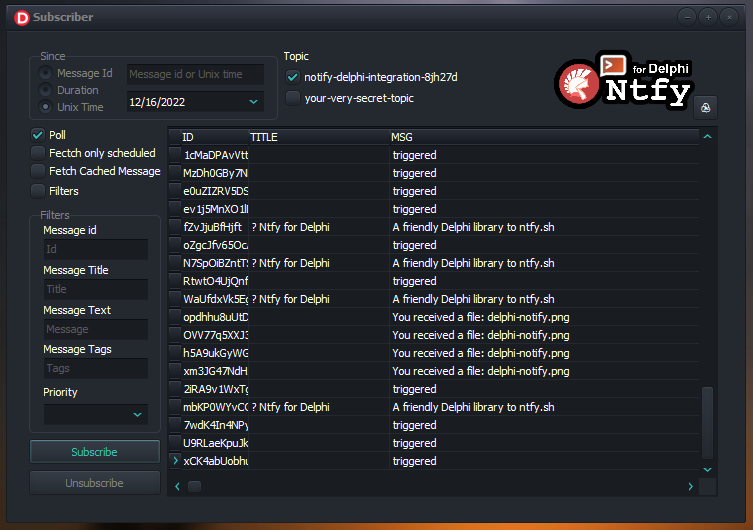
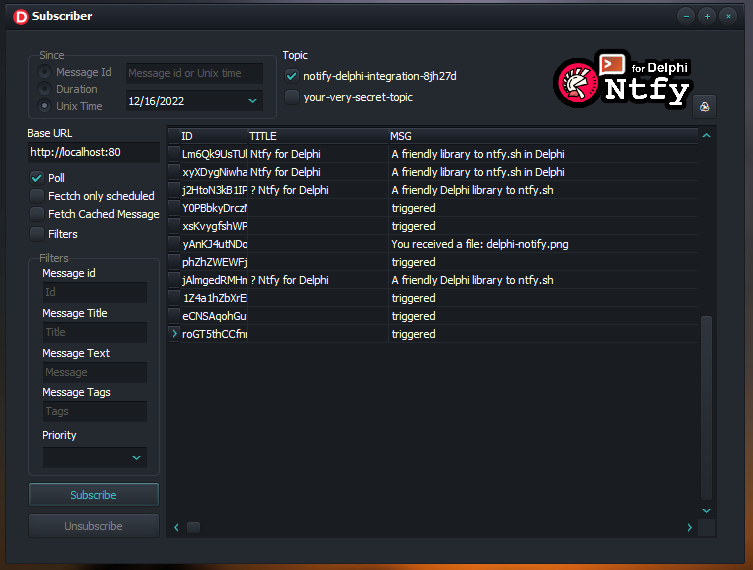
🔍 Readme updates

diff --git a/README.md b/README.md
@@ -1,24 +1,28 @@
 <div align="center">
-  <img src="./img/delphi-notify.png">
+  <img src="./img/delphi-notify.png" width="65%">
 </div>
 
 <br/>
 
- Ntfy was made by [Philipp C. Heckel](https://github.com/binwiederhier) as an open source project. Consider leaving a star in [his project](https://github.com/binwiederhier/ntfy). As [Philipp C. Heckel](https://github.com/binwiederhier) stated, it will always be free, so any kind of support to afford costs help with cloud hosting will be warmly received. Visit [docs.ntfy.sh](https://docs.ntfy.sh/) to get started with documentation.
+ Ntfy was made by [Philipp C. Heckel](https://github.com/binwiederhier). Consider leaving a star in [his project](https://github.com/binwiederhier/ntfy). As [Philipp C. Heckel](https://github.com/binwiederhier) stated, this service will stay free, so any kind of support to afford costs help with cloud hosting will be warmly received. You can also self-host ntfy server. Visit [docs.ntfy.sh](https://docs.ntfy.sh/) to get started with documentation.
  
 <br/>
 
-# 🔔 Ntfy for Delphi 
+## 🔔 Ntfy for Delphi 
 
 Ntfy for Delphi it's a friendly library to work with [ntfy.sh](https://docs.ntfy.sh/) endpoints in Delphi. It allows you publishing messages and subscribing on topics to receive instant notifications. 
 
-# ⚙ Installation
+<br>
+
+## ⚙ Installation
 
 You need to add ```src``` folder to your library path or search path. 
 
-# ⚡ Quickstart
+<br>
 
-Push a notification on a specif topic. Topics are the same as channels and the topic's name you choose will become a public url, so remember to make difficult to guess it.
+## ⚡ Quickstart
+
+Push a notification on a specif topic. Topics are the same as channels and the name you choose will become a public url, so remember to make difficult to guess it.
 
 ``` pascal
 
@@ -37,8 +41,9 @@ begin
 end;
 
 ```
+<br>
 
-# 💬 Subscribe to a topic
+## 💬 Subscribe to a topic
 
 You can subscribe to a topic through several ways. For instance, the [Web App](https://ntfy.sh/app), [Android](https://docs.ntfy.sh/subscribe/phone/), [CLI](https://docs.ntfy.sh/subscribe/cli/) or you can use this library as follows: 
 
@@ -57,21 +62,19 @@ end;
 ```
 
 There is a [VCL Sample](https://github.com/p-samuel/delphi-notify/tree/main/sample/vcl) demonstration showing you how to use Delphi Ntfy subscription mechanism into your project.
+<br>
+
+## ⚙ Supported Version & Platforms
+
+<img src="https://img.shields.io/badge/Delphi%20Supported%20Version%20-v10.1%2B%20-blue"></img>
+<img src="https://img.shields.io/badge/Supported%20Platforms-Win32%20%26%20Win64-green"></img>
 
 
-# ⚙ Supported Editions
 
-|       Version        |  Supported   |       Version        |  Supported   |  
-|----------------------|:------------:|----------------------|:------------:| 
-| Delphi 5             |      ❌      |  Delphi 7             |      ❌     |
-| Delphi XE            |      ❓      |  Delphi 11 Alexandria |      ❓     |
-| Delphi 10 Seattle    |      ❓      |  Delphi 10.1 Berlin   |      ❓     |
-| Delphi 10.2 Tokyo    |      ❓      |  Delphi 10.3 Rio      |      ✔      |
-| Delphi 10.4 Sydney   |      ✔       | 
+It hasn't been tested in some Delphi versions yet. You can help finding out informing with a PR update to this README file. In the PR, inform the selected badged.
+<br>
 
-It hasn't been tested in some Delphi versions yet. You can help finding out informing with a PR update to this README table file. In the PR, change the flag to a ✔ or a ❌.
-
-# ⛔ Limitations
+## ⛔ Limitations
 
 Support to notifications that contains ```broadcast``` actions has not been implemented. Likewise, some advanced specific resources has not yet been implemented as well.
 
@@ -88,7 +91,9 @@ Support to notifications that contains ```broadcast``` actions has not been impl
 | sse                     | ❌       |
 | websocket               | ❌       |
 
-# 🔗 Dependencies
+<br>
+
+## 🔗 Dependencies
 
 Ntfy for Delphi uses a few libraries in the messages subscription and publishing mechanism. There is no need to install. The respective credit adviced.
 
@@ -96,8 +101,9 @@ Ntfy for Delphi uses a few libraries in the messages subscription and publishing
 * [Indy10](https://github.com/IndySockets/Indy) by IndySockets.
 * [JsonToDelphiClass](https://github.com/PKGeorgiev) by Petar Georgiev.
 
+<br>
 
-# 🌱 Consider Contributing
+## 🌱 Consider Contributing
 
 Ntfy for Delphi it's an open source project under the MIT license. Feel free to use or contribute! 
 

diff --git a/tests/README.md b/tests/README.md
@@ -1,10 +1,23 @@
 <div align="center">
-  <img src="../img/delphi-notify.png">
+  <img src="../img/delphi-notify.png" width="65%">
 </div>
 
-## Test cases 🧪
+## Test cases 
 
-Provided some DUnit tests for main ntfy's methods.
+Providing some DUnit tests for ntfy main methods. Ntfy disponibilizes a docker image for self-hosting the server. This project contains a docker compose file and a server yml file with settings for deploying locally in your machine.
+
+## ⚙ Settings
+Install Docker in your machine and run these commands after:
+
+``` cmd
+docker compose create
+docker cp .\server.yml ntfy:/etc/ntfy
+docker compose up
+```
+
+## 🧪 DUnit Tests
+Access http://localhost:80 in your browser and subscribe to ```notify-delphi-integration-8jh27d```. You should be ready to receive messages coming from this test project.
+
 
 ``` pascal
   RegisterTest('Send simple message', TTestSimpleMessage.Suite);
@@ -16,7 +29,6 @@ Provided some DUnit tests for main ntfy's methods.
   RegisterTest('Send tags', TTestEmojis.Suite);
   RegisterTest('Send icons', TTestIcons.Suite);
   RegisterTest('Send url attachments', TTestURLAttachments.Suite);
-
 ```
 <br/>
 

diff --git a/sample/vcl/subscriber/README.md b/sample/vcl/subscriber/README.md
@@ -1,14 +1,10 @@
 <div align="center">
-  <img src="../../../img/delphi-notify.png">
-</div>
 
-<div align="center">
-
-# VCL Samples (Subcribing) 🧪
+# VCL Samples (Subscribing) 🧪
 
 </div>
 
-Compile this project and explore the VCL sample that has been prepared to demonstrate how subscribing on topics works.
+Compile this project to explore the VCL sample showing how subscribing to topics works.
 
 <div align="center">
   <img src="./img/subscriber-vcl.png">
@@ -19,7 +15,7 @@ Also check this [link](https://github.com/p-samuel/delphi-notify/tree/dev-psamue
 
 ## Subscribing to a topic
 
-Subscription mechanism is event based.
+Subscription mechanism it's event based.
 
 ``` pascal
 uses
@@ -48,6 +44,16 @@ uses
 begin
   Ntfy.Subscribe('your-very-secret-topic', YourCallBackProcedure);
 end;
+```
+
+## ⚙ Self-hosted server (optional for this sample)
+Install Docker in your machine and run these commands after:
+
+``` cmd
+cd delphi-notify\tests
+docker compose create
+docker cp .\server.yml ntfy:/etc/ntfy
+docker compose up
 ```
 
 ## ⚠ Observations

diff --git a/sample/vcl/publisher/README.md b/sample/vcl/publisher/README.md
@@ -1,20 +1,26 @@
 <div align="center">
-  <img src="../../../img/delphi-notify.png">
-</div>
-
-<div align="center">
 
 # VCL Samples (Publishing) 🧪
 
 </div>
 
-Compile this project and explore the VCL sample that has been prepared to demonstrate how publishing messages works.
+Compile this project and explore the VCL sample to demonstrate how publishing messages works.
 
 <div align="center">
   <img src="./img/vcl-sample.PNG">
 </div>
 
 Also check this [link](https://github.com/p-samuel/delphi-notify/tree/dev-psamuel/sample/console/publisher) for some interesting resources. 
+
+## ⚙ Self-hosted server (optional for this sample)
+Install Docker in your machine and run these commands after:
+
+``` cmd
+cd delphi-notify\tests
+docker compose create
+docker cp .\server.yml ntfy:/etc/ntfy
+docker compose up
+```
 
 ## ⚠ Observations
 You must have SSL libraries in order to run this project.

diff --git a/sample/console/publisher/README.md b/sample/console/publisher/README.md
@@ -1,9 +1,9 @@
 <div align="center">
-  <img src="../../../img/delphi-notify.png">
+  <img src="../../../img/delphi-notify.png" width="65%">
 </div>
 
 ## ⚠ Observations
-Never forget to include which topic are you publishing. You must also have SSL libraries in order to run this project.
+Provide a topic for publishing messages. You also must have SSL libraries for running this project.
 
 ``` pascal
   Ntfy.Notification(

diff --git a/sample/console/subscriber/README.md b/sample/console/subscriber/README.md
@@ -1,5 +1,5 @@
 <div align="center">
-  <img src="../../../img/delphi-notify.png">
+  <img src="../../../img/delphi-notify.png" width="65%">
 </div>
 
 <div align="center">
